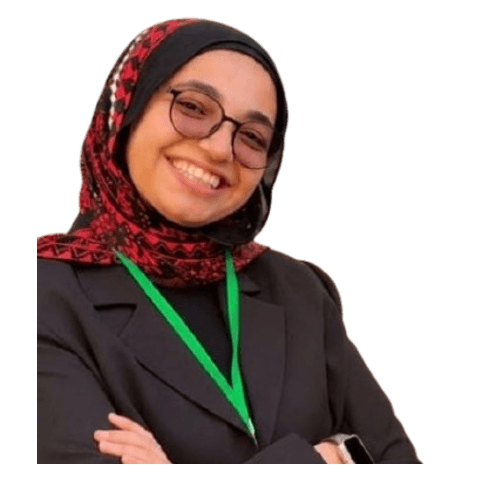
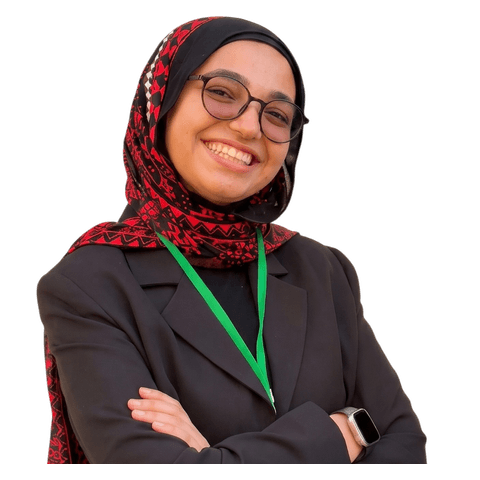
Use Nada's replacement portrait on her vote card
- Regenerate dna-origami-nanorobotics.png from the new uncropped PNG; drop its photoShift
- Let process-voting.mjs rebuild a single output by name

diff --git a/working.md b/working.md
@@ -1,6 +1,7 @@
 # COMPASS working log
 
 ## Current state
+- **Nada's vote card uses the replacement PNG (2026-11-18, user request):** `scripts/process-voting.mjs` now reads `public/Student presenters png/Nada_El-Sayem png.png` for `dna-origami-nanorobotics` and accepts an optional output-name argument so one cutout can be rebuilt without touching the others (`node scripts/process-voting.mjs dna-origami-nanorobotics`). The regenerated `public/voting/dna-origami-nanorobotics.png` is a centred bust with no hard right edge, and the now-unneeded `photoShift: -7.7` was removed from that candidate in `lib/voting-candidates.json`. Verified lint, typecheck, 117/117 unit tests, build and `voting-qa` 50/50 (Supabase mocked, no live data touched).
 - **Speakers page: five cards in two titled groups (2026-11-17, user request):**
   - **Grand Speakers** — Prof. Dr. Wael El-Shaer, Prof. Dr. Wael Sakr and Prof. Dr. Osama Abdelhay. El-Shaer, Sakr and the third professor, Prof. Dr. Abdel-Nasser El-Naggar, are appended to `special-guests` in `lib/honorees.ts` with their exact supplied titles; only the first two, plus Osama (already a guest, "President of the Egyptian Medical Syndicate"), speak. **Student Speakers** — Malak Ashraf (4th year medical student, Beni Suef National University) and Nada El Sayem (1st year medical student, Nile Valley University). Both groups are driven by `Speaker.group` in `lib/content.ts`; no invented bio, session title, credentials or links. `components/speaker-card.tsx` owns the markup, `tests/speakers.test.ts` the data/photo checks, `scripts/qa-assert.mjs` the browser checks. The notes and empty-state fallback are unchanged.
   - **Crops** come from `.playwright-cli/process-speakers.mjs` (originals left untouched and untracked): the 560×720 `-card.webp` and 144×144 `-thumb.webp` keep the classic honoree framing for the About tiles; a new `-portrait.webp` 560×720 is trimmed to the person, fitted inside 536×508 and planted on the card base. El-Shaer is cut at 70.8% of his trimmed height, Malak at 59% and Nada at 62% — bust-length like the doctors, not full standing shots. Nada's first upload had a hard cut down her right side; the user replaced it with `public/Student presenters png/Nada_El-Sayem png.png`, which is centred and uncropped. The script uses `portraitOnly` for Osama (honoree card/thumb untouched) and for the students.
